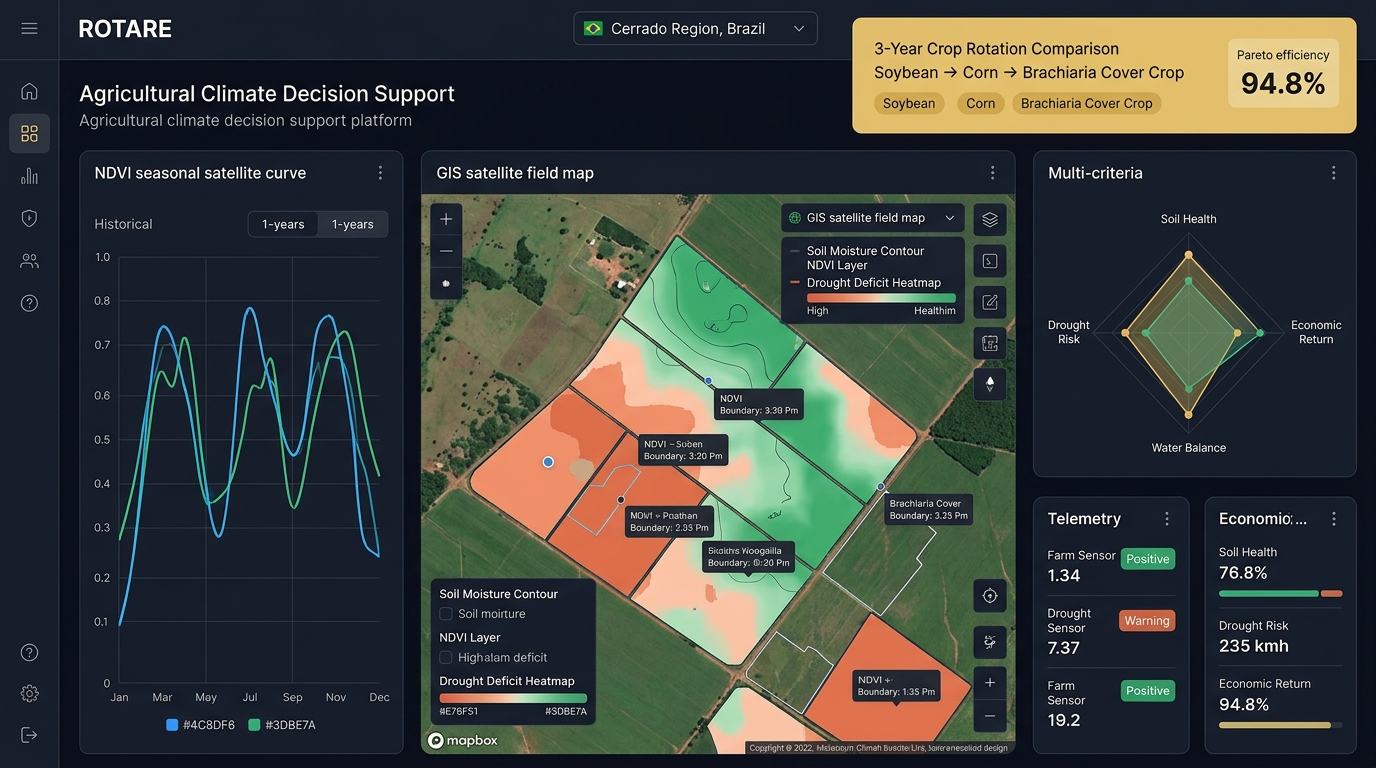
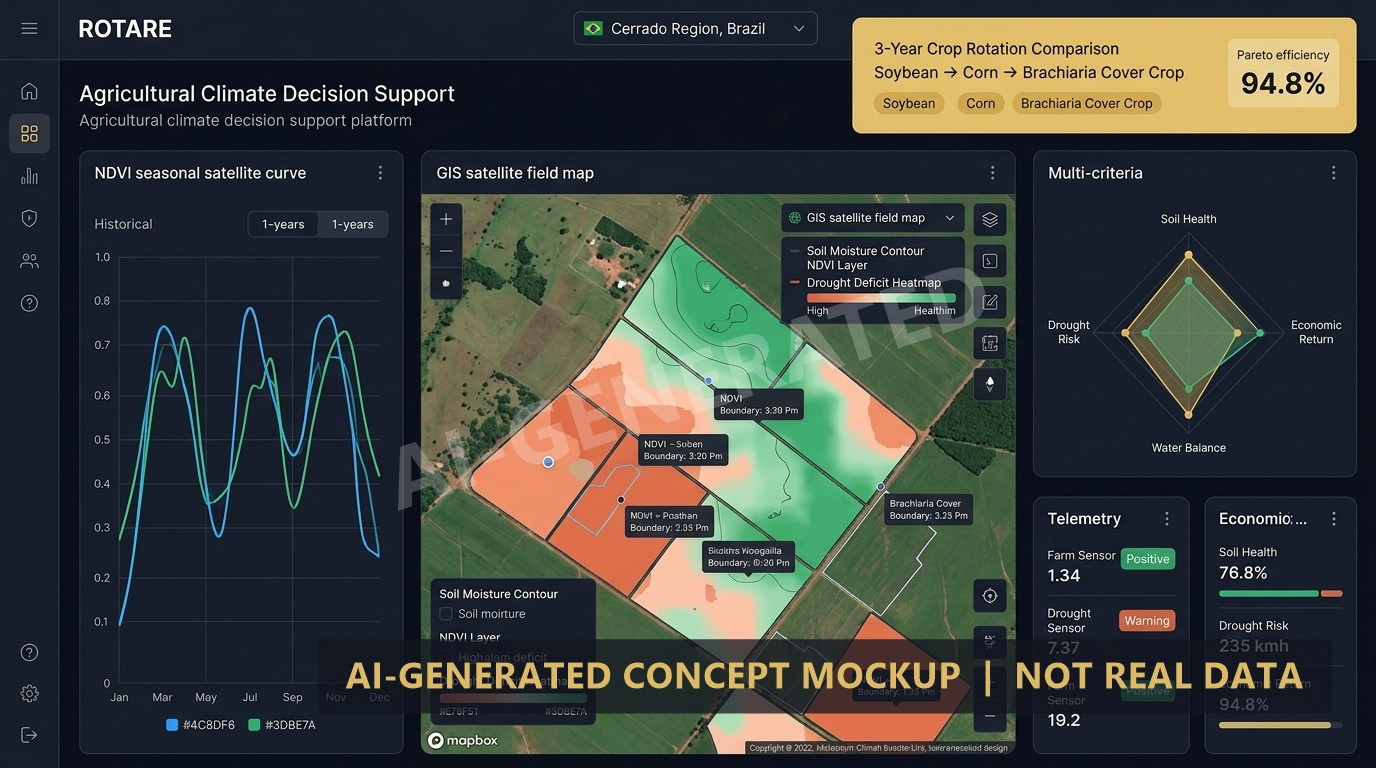
docs: update SI disclosure, image watermarks reference, and clean assets

Changed region(s): [[0.25, 0.8125, 0.9688, 0.9375], [0.5, 0.3438, 0.7188, 0.5312], [0.2812, 0.5, 0.5, 0.6562]]

diff --git a/README.md b/README.md
@@ -9,7 +9,7 @@
 [![Platform](https://img.shields.io/badge/Brazil-Monitoring-12141F?logo=satellite&logoColor=4C8DF6)](#)
 [![Python 3.11+](https://img.shields.io/badge/Python-3.11+-4C8DF6?logo=python&logoColor=white)](https://www.python.org/)
 [![License: MIT](https://img.shields.io/badge/License-MIT-3DBE7A)](LICENSE)
-[![NASA Space Apps 2026](https://img.shields.io/badge/NASA%20Space%20Apps-2026-E9C46A?logo=nasa&logoColor=12141F)](https://www.spaceappschallenge.org/)
+[![NASA Space Apps 2026](https://img.shields.io/badge/NASA%20Space%20Apps-2026-E9C46A)](https://www.spaceappschallenge.org/)
 [![Data Sources](https://img.shields.io/badge/Open%20Data-13%20Sources-E76F51)](#-nasa--satellite-data)
 
 **A decision-support tool that monitors Brazilian agricultural fields and helps farmers compare three-year crop rotations using NASA satellite data.**
@@ -77,11 +77,11 @@ Designed in accordance with the project dossier, each color serves a direct sema
 ## ✨ Key Features
 
 - 🛰 **Satellite-based crop history detection** — 10-year NDVI/EVI series from MODIS and HLS to identify past crop cycles and bare-soil periods
-- 🌧 **Climate risk simulation** — daily water balance using NASA POWER weather and GPM IMERG satellite rainfall, bias-corrected per field
+- 🌧 **Climate risk simulation** *(in development)* — daily water balance using NASA POWER weather, with rainfall from GPM IMERG and CHIRPS shown as a range across sources
 - 🌍 **ENSO-aware analysis** — classifies each crop year as El Niño, La Niña or neutral using NOAA's Oceanic Niño Index
 - 🧪 **Soil characterization** — clay, organic carbon, pH and texture from ISRIC SoilGrids 2.0 (250 m), with erosion risk from SRTM elevation
 - 📊 **Multi-criteria ranking** — Pareto-front scoring of three-year rotation sequences weighted by farmer priorities
-- 🔄 **Fully reproducible & dual-mode** — connects to live NASA APIs on demand, while providing bundled offline validation datasets in the repository
+- 🔄 **Fully reproducible** — one command collects all 13 open sources for any coordinate; the app reads only the bundled Parquet files, so no API is called during the demo
 
 ---
 
@@ -91,7 +91,7 @@ Designed in accordance with the project dossier, each color serves a direct sema
   <img src="assets/img/rotare-dashboard-preview.jpg" alt="Rotare Decision Support Platform Interface" width="100%" style="border-radius: 12px; margin: 15px 0; border: 1px solid rgba(76, 141, 246, 0.2);" />
 </div>
 
-*Multi-criteria analytics dashboard designed with the project dossier palette: 3-year crop sequence evaluation with Pareto ranking scores, historical satellite NDVI trend curves, GIS soil moisture and drought mapping, and 4-pillar radar diagnostic metrics.*
+*Concept mockup generated with AI to illustrate the planned interface (watermarked). It is **not** the working app and its numbers are **not** real data. It will be replaced by screenshots of the real app.*
 
 ---
 
@@ -144,7 +144,7 @@ flowchart LR
 
 ```
 rotare/
-├── assets/img/      # Visual assets, platform mockups, and team badges
+├── assets/img/      # Team brand assets and AI-generated illustrations (watermarked)
 ├── coleta/          # Data collection pipeline (13 open sources, single command)
 │   ├── coleta_rotare.py    # Main API ingestion script
 │   ├── coletar.ps1         # Windows PowerShell launcher (auto venv setup)
@@ -209,10 +209,10 @@ rotare/
 
 Using IMERG satellite rainfall, the only two crop years with a strong water deficit coincided with the two strong El Niño events:
 
-| Crop Year | ENSO Phase | Rainfall Anomaly | Impact on Agronomic Water Balance |
+| Crop Year | ENSO Phase | Water deficit (ET₀ − IMERG rainfall) | Observed municipal outcome (IBGE PAM) |
 |:---:|:---:|:---:|:---|
-| 2015/16 | Strong El Niño | **+369 mm** deficit | Critical deficit during reproductive stage |
-| 2023/24 | Strong El Niño | **+456 mm** deficit | Severe planting delays and yield contraction |
+| 2015/16 | Strong El Niño | **+369 mm** | Lowest soybean yield of 2010–2024 (48 bags/ha) |
+| 2023/24 | Strong El Niño | **+456 mm** | Soybean yield fell from 62.5 to 58 bags/ha |
 
 La Niña years showed surpluses of up to **824 mm**. The POWER reanalysis underestimates rainfall in this region by up to half, which is why Rotare uses IMERG for rainfall totals.
 
@@ -288,13 +288,13 @@ Each field directory under `data/<field>/` contains standardized, ready-to-use a
 
 | File | Description | Format |
 |:---|:---|:---:|
-| `base_diaria.parquet` / `.csv` | Daily series: weather, Hargreaves ET₀, frost (≤ 2 °C), heat (≥ 35 °C), extreme rain (≥ 50 mm), NDVI, soil moisture, crop year, ENSO phase | Parquet / CSV |
+| `base_diaria.parquet` / `.csv` | Daily series: weather, Hargreaves ET₀, frost (≤ 2 °C), heat (≥ 35 °C), extreme rain (≥ 50 mm), CHIRPS rainfall, crop year, ENSO phase. NDVI and soil moisture columns are added when the AppEEARS request completes | Parquet / CSV |
 | `resumo_safras.parquet` / `.csv` | Annual crop-year summary (Jul–Jun): rainfall (POWER, IMERG, CHIRPS), ET₀, water deficit, extreme temperature days, ENSO classification | Parquet / CSV |
 | `zarc.parquet` / `.csv` | Official Brazilian agro-climatic planting risk (20/30/40 %) per crop, cycle, soil class, and 10-day period | Parquet / CSV |
 | `aptidao_ecocrop.parquet` / `.csv` | Indicative climate suitability index (0–1) across 18 crops per planting month | Parquet / CSV |
 | `chirps.parquet` / `chirps_safras.parquet` | Daily CHIRPS rainfall since 1981 and crop-year cumulative series | Parquet / CSV |
 | `sidra_pam.parquet` / `.csv` | Official municipal planted area, production, and yield per crop since 1987 (IBGE PAM) | Parquet / CSV |
-| `manifesto.json` | Complete provenance log with exact API timestamps, bounding coordinates, and citation list | JSON |
+| `manifesto.json` | Collection log: run time, point coordinates, status of each source and citation list | JSON |
 | `csv/` | Directory containing full CSV copies of every table + dedicated README | Directory |
 
 ---
@@ -313,7 +313,9 @@ All CSV files use UTF-8 encoding, comma (`,`) as column delimiter, and dot (`.`)
 | `temp_max_c` | Maximum daily air temperature at 2 m | °C (NASA POWER) |
 | `temp_min_c` | Minimum daily air temperature at 2 m | °C (NASA POWER) |
 | `chuva_power_mm` | Daily modeled rainfall (underestimates in tropical regions; use IMERG for totals) | mm/day (NASA POWER) |
+| `chuva_chirps_mm` | Daily observed rainfall (satellite + stations, ~5 km) | mm/day (CHIRPS) |
 | `umidade_rel_pct` | Relative air humidity at 2 m | % (NASA POWER) |
+| `vento_2m_ms` | Wind speed at 2 m. **Unreliable at this point in the source data; not used** | m/s (NASA POWER) |
 | `radiacao_mj_m2` | Surface all-sky incoming solar radiation | MJ/m²/day (NASA POWER) |
 | `et0_hargreaves_mm` | Reference evapotranspiration calculated via Hargreaves equation (FAO-56) | mm/day (Derived) |
 | `geada` | Frost risk occurrence indicator (`Tmin ≤ 2 °C`) | Boolean (`True`/`False`) |
@@ -328,12 +330,14 @@ All CSV files use UTF-8 encoding, comma (`,`) as column delimiter, and dot (`.`)
 
 | Column | Description | Unit / Notes |
 |:---|:---|:---:|
-| `ano_safra` | Agricultural crop year label | YYYY/YYYY |
+| `ano_safra` | Crop year (2023 = July 2023 to June 2024) | Integer |
 | `chuva_power_mm` | Modeled cumulative rainfall for the crop year | mm (NASA POWER) |
 | `chuva_imerg_mm` | Satellite-observed cumulative rainfall for the crop year (**preferred source**) | mm (GPM IMERG V07) |
 | `et0_hargreaves_mm` | Total atmospheric water demand (cumulative reference evapotranspiration) | mm (FAO-56) |
 | `deficit_hidrico_mm` | Water deficit from POWER (`ET₀ - Rainfall`); positive value = water deficit | mm |
-| `deficit_hidrico_imerg_mm` | Satellite-verified water deficit using IMERG | mm |
+| `deficit_hidrico_imerg_mm` | Water deficit using IMERG rainfall (empty when months are missing) | mm |
+| `chuva_chirps_mm` | Cumulative crop-year rainfall from CHIRPS | mm (CHIRPS) |
+| `deficit_hidrico_chirps_mm` | Water deficit using CHIRPS rainfall | mm |
 | `geada` / `calor_extremo` / `chuva_extrema` | Total count of extreme weather days in that crop year | Days (Count) |
 | `dias` / `safra_completa` | Number of recorded days and completeness flag (`True` for full comparisons) | Integer / Boolean |
 | `meses_imerg` | Number of validated IMERG months available (12 = complete season) | Months (Count) |
@@ -377,7 +381,7 @@ All CSV files use UTF-8 encoding, comma (`,`) as column delimiter, and dot (`.`)
 
 | CSV File | Source | Parameters & Metrics |
 |:---|:---|:---|
-| `power.csv` | NASA POWER API | Raw daily solar irradiance, temperatures, humidity, and atmospheric pressure |
+| `power.csv` | NASA POWER API | Raw daily temperatures, rainfall, humidity, wind (unreliable here) and solar radiation |
 | `imerg.csv` | NASA GES DISC | Monthly calibrated satellite rainfall (mm/month) from Jan 2014 to Sep 2025 |
 | `chirps.csv` | UCSB Climate Hazards | High-resolution (~5 km) daily precipitation grid from 1981 to 2025 |
 | `oni.csv` | NOAA Climate Prediction | 3-month running mean SST anomalies in the Niño 3.4 region since 1950 |
@@ -399,7 +403,7 @@ All CSV files use UTF-8 encoding, comma (`,`) as column delimiter, and dot (`.`)
 | **Vegetation Index** | NDVI measures canopy greenness, not direct chemical soil fertility | Used strictly to detect crop cycles, planting/harvest dates, and bare-soil exposure periods |
 | **Spatial Resolution** | SMAP L4 operates on a 9 km grid with data assimilation | Used to validate regional moisture dynamics, not as a point-scale sensor |
 | **Soil Estimates** | SoilGrids 2.0 is a global ML model with lower confidence in tropical soils | Acknowledged as baseline; in managed Brazilian soils, liming alters native pH (4.8 baseline) — farmers can supply lab soil reports |
-| **Satellite Latency** | GPM IMERG Final has an official latency of ~3.5 months | Complemented with NASA POWER near-real-time daily observations for the latest dates |
+| **Satellite Latency** | GPM IMERG Final has an official latency of ~3.5 months | Recent months rely on NASA POWER (a modeled reanalysis, not observations) and CHIRPS; incomplete IMERG seasons are flagged (`meses_imerg < 12`) |
 | **ENSO Simulation** | El Niño evaluation is historical analog analysis, not a deterministic weather forecast | Evaluates "how past strong El Niño seasons impacted this specific field", clearly communicating risk distributions |
 
 ---
@@ -408,19 +412,22 @@ All CSV files use UTF-8 encoding, comma (`,`) as column delimiter, and dot (`.`)
 
 *In strict compliance with the **NASA Space Apps Challenge 2026 Rules** and the **Use of Super Intelligence (SI) Policy**:*
 
-### 1. 100% Human Idealization, Creativity & Scientific Conception
-- **The project idea, concept, problem definition, and architectural design are entirely our own.**
-- The team (**Datanauts Brasil**) conceived the premise of Rotare: shifting agricultural decision support from single-season planting dates (*when*) to multi-year strategic rotation sequences (*what sequence*).
-- All domain research, selection of NASA and open datasets, mathematical formulations (soil conditioning equations, bucket water balance, Pareto ranking criteria), and agronomic interpretations were conducted directly by the team members.
+### 1. Idea and decisions
+- The team chose the Field Shift challenge and decided Rotare's concept, scope and priorities in its own ideation session.
+- Before the event, AI tools were used as **research support**: analysing the challenge, past Space Apps projects, existing tools and candidate approaches. The team discussed these options and made the final decisions. That research document is not part of this repository.
 
-### 2. AI as a Development & Coding Assistant Only
-- Generative AI coding assistants (Claude by Anthropic) were used **strictly as engineering aids** to assist with boilerplate software development, speed up API response parsing, refactor repetitive pipeline scripts, and format documentation tables.
-- Every source code file that received assistance carries an explicit disclosure comment at the top.
+<!-- TEAM: confirm that the two lines above describe how the idea was decided. If in doubt, check with the event mentors. -->
 
-### 3. Absolute Data Integrity — Zero AI Hallucination
-- **No data, numbers, calculations, or satellite values were generated, simulated, or hallucinated by AI.**
-- Every single metric, rainfall total, NDVI curve, and soil property originates directly from the verified NASA and partner open databases documented in [REFERENCES.md](REFERENCES.md).
-- All calculations are processed through the deterministic, fully audit-proof mathematical engine in this repository.
+### 2. Code and documentation
+- AI coding assistants (Claude by Anthropic) wrote most of the data collection pipeline in [`coleta/`](coleta/) and the first drafts of this README and [REFERENCES.md](REFERENCES.md), under the team's direction. The team reviewed, ran and edited them.
+- AI also suggested some data sources (for example CHIRPS and IBGE SIDRA), which the team approved.
+- Every AI-assisted code file carries a disclosure comment at the top.
+
+### 3. Data integrity
+- **No data values were generated by AI.** Every rainfall total, temperature, soil property, yield and risk value comes from the NASA and partner open data documented in [REFERENCES.md](REFERENCES.md), processed by the deterministic code in this repository.
+
+### 4. Images
+- The banner and the interface mockup are **AI-generated illustrations** and carry a visible watermark. The mockup does not show real data.
 
 > No NASA logo, flag, or official mission identifier is altered or misused in this project.
 
@@ -456,7 +463,7 @@ All CSV files use UTF-8 encoding, comma (`,`) as column delimiter, and dot (`.`)
 *These data were obtained from the NASA Langley Research Center (LaRC) POWER Project*  
 *funded through the NASA Earth Science/Applied Science Program.*
 
-**[Datanauts Brasil](https://github.com/datanauts-brasil) · NASA Space Apps Challenge 2026**  
+**Datanauts Brasil · NASA Space Apps Challenge 2026**  
 *Field Shift: Adapting Farms with NASA Data*
 
 </div>

diff --git a/REFERENCES.md b/REFERENCES.md
@@ -49,6 +49,16 @@ submission guide. The collection script also writes the data references of each 
 | NASA Space Apps Global Winners Announcement | https://www.nasa.gov/learning-resources/stem-engagement-at-nasa/nasa-announces-2025-international-space-apps-challenge-global-winners/ | NASA Stem Engagement global winner precedents |
 | Revista Pesquisa FAPESP | https://revistapesquisa.fapesp.br/ | Brazilian agricultural science and agronomic research context |
 
+## Images
+
+| File | Origin | Notes |
+| --- | --- | --- |
+| `assets/img/rotare-hero-banner.jpg` | AI-generated illustration | Visible "AI-GENERATED" watermark |
+| `assets/img/rotare-dashboard-preview.jpg` | AI-generated concept mockup | Visible watermark; does not show real data |
+| `assets/img/datanauts-*.png` and Datanauts brand files | Datanauts Brasil team identity | Team brand assets |
+
+No NASA logo, flag or mission identifier is used in these images.
+
 ## Methods
 
 | Method | Use | Citation |
